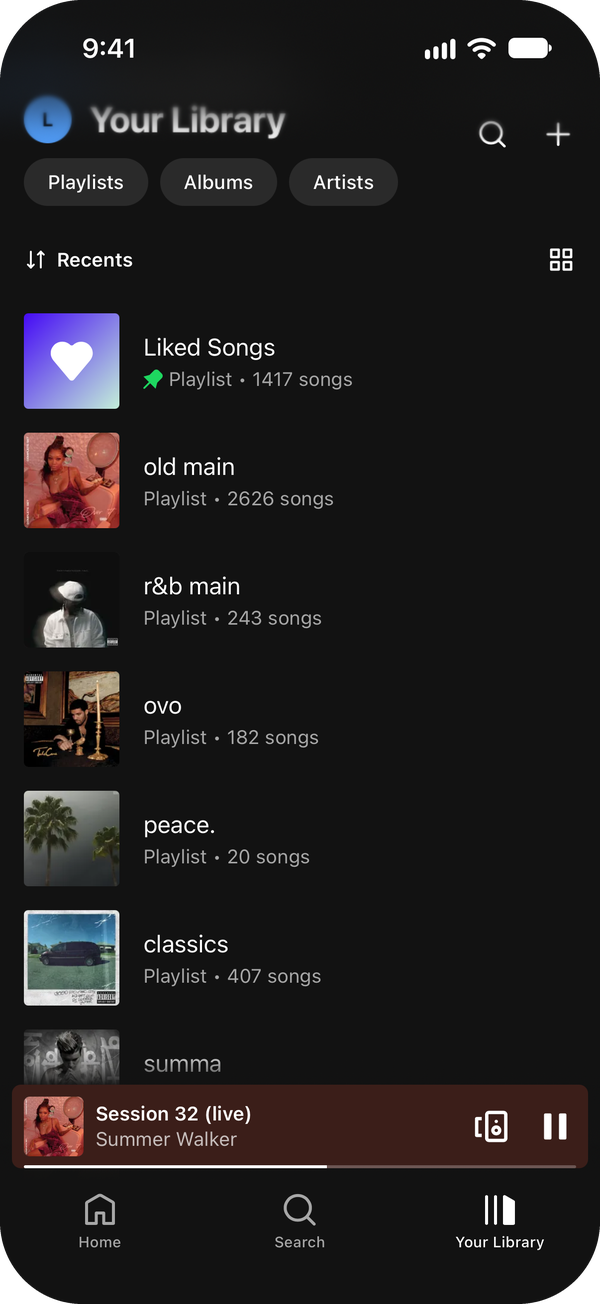
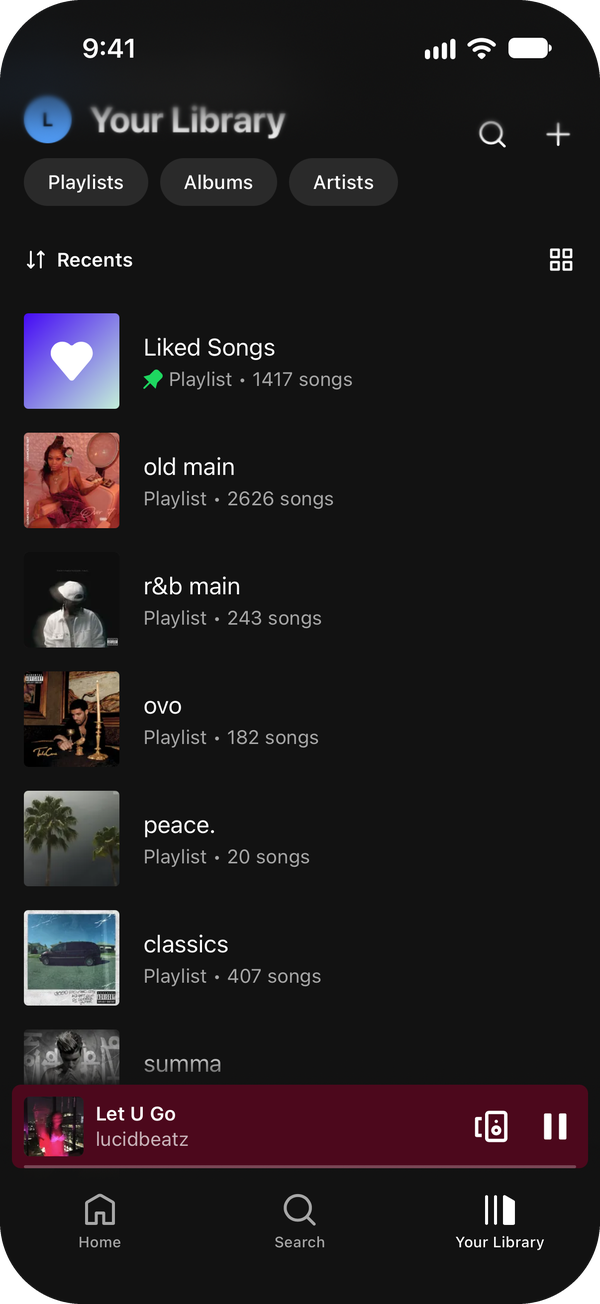
README rewrite: shorter and plainer; screenshots, install, apps table, integrations table. iPhone shots redone on the scape playlist / Let U Go

Changed region(s): [[0.03, 0.8282, 0.54, 0.9202]]

diff --git a/README.md b/README.md
@@ -1,148 +1,112 @@
 # Slopify
 
+Spotify, but it's your music on your server. One Docker container, point it at
+your music folder, and everyone in the house gets their own account with
+likes, playlists, lyrics and a Home page. Start a song on your phone and
+finish it on the speakers.
+
 <p align="center">
   <a href="https://slopify.lukasbaxter.ca"><img alt="Try the live demo" src="docs/images/try-demo.svg" width="420"></a>
   <br>
-  <sub>No sign-up. 30-second clips, settings are look-only.</sub>
+  <sub>No sign-up, 30-second clips.</sub>
 </p>
 
 <p align="center">
   <a href="https://github.com/lukasbaxter/slopify/releases/latest"><img alt="Latest release" src="https://img.shields.io/github/v/release/lukasbaxter/slopify?style=for-the-badge"></a>
   <a href="https://github.com/lukasbaxter/slopify/pkgs/container/slopify"><img alt="Container: ghcr.io" src="https://img.shields.io/badge/ghcr.io-amd64_%7C_arm64-2496ED?style=for-the-badge&logo=docker&logoColor=white"></a>
-  <a href="docs/home-assistant.md"><img alt="Built for Home Assistant" src="https://img.shields.io/badge/built_for-Home_Assistant-18BCF2?style=for-the-badge&logo=homeassistant&logoColor=white"></a>
   <a href="LICENSE"><img alt="License: AGPL v3" src="https://img.shields.io/github/license/lukasbaxter/slopify?style=for-the-badge"></a>
-  <a href="https://github.com/lukasbaxter/slopify/actions/workflows/ci.yml"><img alt="CI" src="https://img.shields.io/github/actions/workflow/status/lukasbaxter/slopify/ci.yml?style=for-the-badge&label=ci"></a>
 </p>
-
-**Your own Spotify, for your own music.** Point one Docker container at your
-music folder and everyone in your household gets Spotify-style apps on the web,
-Android, iPhone, Mac and Windows: their own likes, playlists and Home page,
-synced lyrics, and one session that follows them from phone to desk to the
-living-room speakers.
-
-<sub>As seen in [Self-Host Weekly, 30 October 2026](https://selfh.st/weekly/2026-10-30/).</sub>
 
 <p align="center">
-  <img alt="A playlist on a computer, with the library in the sidebar" src="docs/images/screen-desktop-playlist.jpg" width="32%">
-  <img alt="Full-screen synced lyrics on a computer" src="docs/images/screen-desktop-lyrics.jpg" width="32%">
-  <img alt="The Mirror visualizer on a computer" src="docs/images/screen-desktop-viz.jpg" width="32%">
+  <img alt="A playlist" src="docs/images/screen-desktop-playlist.jpg" width="32%">
+  <img alt="Synced lyrics" src="docs/images/screen-desktop-lyrics.jpg" width="32%">
+  <img alt="The Mirror visualizer" src="docs/images/screen-desktop-viz.jpg" width="32%">
 </p>
 <p align="center">
-  <img alt="Your Library on an iPhone, with imported playlists" src="docs/images/screen-phone-library.png" width="24%">
-  <img alt="A playlist on an iPhone" src="docs/images/screen-phone-playlist.png" width="24%">
-  <img alt="Now playing on an iPhone" src="docs/images/screen-phone-playing.png" width="24%">
-  <img alt="Synced lyrics on an iPhone" src="docs/images/screen-phone-lyrics.png" width="24%">
+  <img alt="Your Library on iPhone" src="docs/images/screen-phone-library.png" width="24%">
+  <img alt="A playlist on iPhone" src="docs/images/screen-phone-playlist.png" width="24%">
+  <img alt="Now playing on iPhone" src="docs/images/screen-phone-playing.png" width="24%">
+  <img alt="Lyrics on iPhone" src="docs/images/screen-phone-lyrics.png" width="24%">
 </p>
 
-## What it does
+## Install
 
-- **Feels like Spotify.** Home with daily mixes and your top songs, Liked
-  Songs, playlists, search, artist pages with banners and Popular (from
-  ListenBrainz), queue, history.
-- **Sounds right.** Plays your original files (FLAC, ALAC, MP3...) or a
-  quality you pick per device, adaptive on a weak signal. Volume
-  normalization (-14 LUFS, albums keep their balance), crossfade and gapless
-  on computers and Android, a sleep timer on everything.
-- **Lyrics.** Your `.lrc` files, else LrcLib; optional syncing on a GPU.
-- **One session per person.** Start on the phone, carry on at the desk,
-  control one device from another.
-- **Speakers.** Chromecast and BluOS speakers (and groups) are driven by the
-  server, so any phone or browser can play to them. DIY speakers work too:
-  anything answering the small `slopify-speaker/1` HTTP API on port 7780
-  (documented at `BridgeTransport` in `server/src/speakers/transports.ts`).
-- **Household accounts.** Invite links, admin roles, sign-ins revocable per
-  device.
-- **Home Assistant.** Every account and speaker becomes a media player.
-- **Works on a bad connection.** The apps keep what you have opened and play
-  downloaded music offline.
-- **Optional extras.** Lidarr and slskd for filling the library, ListenBrainz
-  scrobbling and weekly playlists, playlists generated by Claude, your
-  Spotify listening history imported.
+Needs Docker and a folder of music. Any folder layout works, it reads the tags.
+Runs on amd64 and arm64 (Raspberry Pi 4/5 is fine).
 
-Free software ([AGPL v3](LICENSE)). No telemetry, no accounts with anyone:
-[what leaves your server](PRIVACY.md) lists every outside service and how to
-turn it off. Not affiliated with Spotify.
+```yaml
+# compose.yml
+services:
+  slopify:
+    image: ghcr.io/lukasbaxter/slopify:latest
+    container_name: slopify
+    restart: unless-stopped
+    network_mode: host          # needed to find Chromecast / Bluesound speakers
+    volumes:
+      - /path/to/music:/music:ro
+      - ./data:/data
+    environment:
+      PORT: "8080"
+      TZ: America/Vancouver
+```
 
-### How it compares
+```
+docker compose up -d
+```
 
-Navidrome and Jellyfin are great servers that work with many third-party
-apps. Slopify makes the other trade: it ships its own apps, so every device
-looks and behaves the same, and the server owns your session, so phones,
-computers and speakers stay in step. If you want to pick your own client
-app, they are the better fit. Slopify reads your music folder read-only, so it
-can sit beside either.
+Open `http://<server>:8080`, log in with `admin` / `admin`, set a password.
+The library scans by itself. Add people in Settings › Accounts or send them
+an invite link.
 
-### How it is built
+- Your music stays read-only. Slopify keeps its stuff in `./data`.
+- Runs as uid 1000; set `PUID` / `PGID` if your files need a different user.
+- Using `ports: ["8080:8080"]` instead of host networking works too, you just
+  lose speaker discovery.
+- Outside your house, put it behind HTTPS: [reverse proxy guide](docs/reverse-proxy.md).
+- If something's off, `docker compose logs slopify` usually says why.
 
-Slopify is written with a lot of help from AI (Claude), and is used every day
-by a real household on its own library. Server tests and Playwright browser
-tests run in CI on every change. It is young (0.1.x): expect frequent
-releases, and please [open an issue](https://github.com/lukasbaxter/slopify/issues)
-when something breaks. The apps also have Settings › Help › Logs and problem
-reports, which send a report to your own server.
+## Apps
 
-## Quick start
+| Platform | How |
+|---|---|
+| Web | Any browser, nothing to install |
+| Android | `.apk` from [releases](https://github.com/lukasbaxter/slopify/releases/latest) |
+| iPhone / iPad | Add to Home Screen from Safari, or the `.ipa` through SideStore ([how](docs/iphone.md)) |
+| Mac | `.dmg` from releases (Apple Silicon) |
+| Windows | Installer or portable `.exe` from releases |
+| Linux | Web app |
+| Android TV / Google TV | Build it from [`tv/`](tv/README.md) |
 
-You need Docker with Compose, and a folder of music (any layout; tags are
-read from the files). The image runs on amd64 and arm64 (Raspberry Pi 4/5,
-ARM NAS boxes).
+Every app shares one session per person, so any device can see and control
+what's playing on the others.
 
-1. Save this as `compose.yml` and change the music path:
+## Works with
 
-   ```yaml
-   services:
-     slopify:
-       image: ghcr.io/lukasbaxter/slopify:latest
-       container_name: slopify
-       restart: unless-stopped
-       network_mode: host        # lets it find and play to Chromecast / BluOS speakers
-       volumes:
-         - /path/to/music:/music:ro
-         - ./data:/data
-       environment:
-         PORT: "8080"
-         TZ: Europe/London   # your time zone, for scheduled tasks
-   ```
+| | |
+|---|---|
+| **Chromecast** | Play to any Cast speaker, TV or group, from any device |
+| **Bluesound / BluOS** | Same, plus grouping and volume |
+| **DIY speakers** | Anything that speaks the small `slopify-speaker/1` HTTP API on port 7780 shows up as a speaker (see `server/src/speakers/transports.ts`) |
+| **Home Assistant** | Every person and speaker becomes a media player. Install with HACS ([guide](docs/home-assistant.md)) |
+| **Soulseek (slskd)** | Weekly Exploration downloads and Upgrade to FLAC ([guide](docs/downloads.md)) |
+| **Lidarr** | Full discographies and requests from inside the app ([guide](docs/downloads.md)) |
+| **Spotify import** | Upload your Spotify data download: playlists, Liked Songs, saved albums and listening history come over. Anything you don't have gets requested |
+| **ListenBrainz** | Scrobbling and weekly discovery playlists, per person |
+| **LrcLib** | Lyrics, if you don't have your own `.lrc` files. Can also sync them on a GPU ([guide](docs/lyric-sync.md)) |
+| **Claude** | Optional: type a vibe, get a playlist from your library (`ANTHROPIC_API_KEY`) |
 
-2. `docker compose up -d`
-3. Open `http://<server>:8080`, sign in as `admin` / `admin` and choose a new
-   password. The library scans on its own; a few thousand songs take a
-   minute or two.
-4. Add your household in Settings › Accounts (or send them an invite), and
-   get the apps from the [releases page](https://github.com/lukasbaxter/slopify/releases).
+Nothing phones home. [PRIVACY.md](PRIVACY.md) lists every outside service it
+talks to and how to turn each one off.
 
-`docker compose logs slopify` says what it found: your music folder, the
-speakers' address, anything it could not do. Most first-run problems are
-spelled out there.
+## Docs
 
-### Good to know
-
-- **Your music folder is read-only to Slopify** unless you ask otherwise.
-  `SAVE_TO_LIBRARY=1` writes found lyrics and artwork next to your files
-  (drop the `:ro` then).
-- **It runs as uid 1000.** It sets up `./data` itself; the music needs to be
-  readable by that user. `PUID` / `PGID` pick a different user.
-- **Speakers need host networking.** With Docker's default network
-  (`ports: ["8080:8080"]` instead of `network_mode: host`) everything else
-  works, but no speakers are found and Home Assistant needs the address typed
-  in. Speakers fetch audio from the server's LAN address, worked out on its
-  own; set `PUBLIC_URL` if the log shows the wrong one.
-- **Outside your home**, put it behind HTTPS: [reverse proxy setup](docs/reverse-proxy.md).
-
-## More
-
-- [Configuration](docs/configuration.md): every setting.
-- [HTTPS and a reverse proxy](docs/reverse-proxy.md): Caddy, nginx, Traefik.
-- [Backups and upgrades](docs/backup-and-upgrade.md): what to keep, pinning versions, moving machines.
-- [Downloads with Lidarr and slskd](docs/downloads.md): discographies, requests, the Tasks list.
-- [Sync lyrics on a GPU](docs/lyric-sync.md): the GPU image.
-- [Home Assistant](docs/home-assistant.md): the integration, installed with HACS.
-- [iPhone](docs/iphone.md): the Home Screen web app, or the app through SideStore.
-
-Home Assistant, in two clicks:
-
-[![Open your Home Assistant instance and open this repository in HACS.](https://my.home-assistant.io/badges/hacs_repository.svg)](https://my.home-assistant.io/redirect/hacs_repository/?owner=lukasbaxter&repository=slopify&category=integration)
-[![Open your Home Assistant instance and start setting up Slopify.](https://my.home-assistant.io/badges/config_flow_start.svg)](https://my.home-assistant.io/redirect/config_flow_start/?domain=slopify)
+[Configuration](docs/configuration.md) ·
+[Reverse proxy](docs/reverse-proxy.md) ·
+[Backups and upgrades](docs/backup-and-upgrade.md) ·
+[Downloads](docs/downloads.md) ·
+[Home Assistant](docs/home-assistant.md) ·
+[iPhone](docs/iphone.md) ·
+[Lyric sync](docs/lyric-sync.md)
 
 ## Develop
 
@@ -161,22 +125,12 @@ folder and a data dir under /tmp.
 
 ## License
 
-Slopify is free software: you can redistribute it and/or modify it under the
-terms of the [GNU Affero General Public License v3](LICENSE) or (at your option)
-any later version. If you run a modified Slopify that other people use over a
-network, offer them its source (set `SOURCE_URL`).
+AGPL v3 ([LICENSE](LICENSE)). The Home Assistant integration in
+`custom_components/slopify` is Apache 2.0. Third-party licenses are in
+[NOTICE](NOTICE) and [THIRD_PARTY_LICENSES.md](THIRD_PARTY_LICENSES.md).
 
-The Home Assistant integration (`custom_components/slopify`) is licensed under
-the [Apache License 2.0](custom_components/slopify/LICENSE), like Home Assistant.
+Bugs and ideas: [issues](https://github.com/lukasbaxter/slopify/issues).
+Security stuff: [SECURITY.md](SECURITY.md). Contributing:
+[CONTRIBUTING.md](CONTRIBUTING.md).
 
-Third-party software and its licenses: [NOTICE](NOTICE) and
-[THIRD_PARTY_LICENSES.md](THIRD_PARTY_LICENSES.md).
-
-## Contributing, security, conduct
-
-- [CONTRIBUTING.md](CONTRIBUTING.md): development setup, tests, pull requests.
-- [SECURITY.md](SECURITY.md): report vulnerabilities privately.
-- [CODE_OF_CONDUCT.md](CODE_OF_CONDUCT.md): Contributor Covenant 2.1.
-
-Slopify is not affiliated with, endorsed by or connected to Spotify AB.
-"Spotify" is a trademark of Spotify AB.
+Built by Lukas with a lot of help from Claude. Not affiliated with Spotify.
